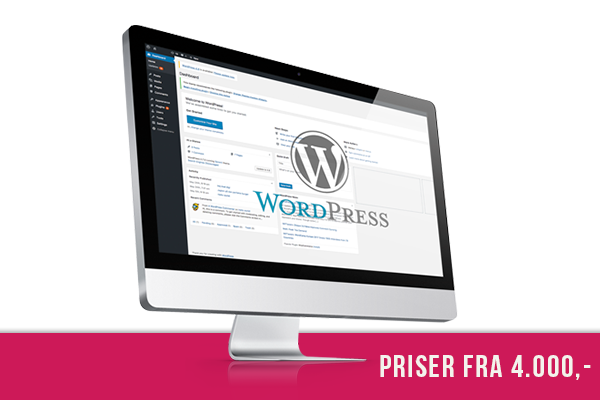
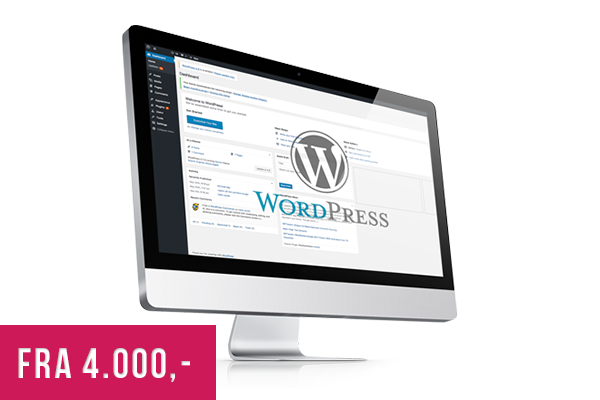
Priser billeder

Changed region(s): [[0.0, 0.81, 1.0, 1.0], [0.03, 0.87, 0.33, 0.96]]

diff --git a/public/css/custom.css b/public/css/custom.css
@@ -1454,7 +1454,7 @@ div.product-chooser{
 	}
 
 	div.product-chooser div.product-chooser-item{
-		padding: 11px;
+		padding: 6px 0px 11px 0px;
 		border-radius: 6px;
 		cursor: pointer;
 		position: relative;
@@ -1479,8 +1479,8 @@ div.product-chooser{
 		div.product-chooser div.product-chooser-item span.title{
 			display: block;
 			margin: 10px 0 5px 0;
-			font-weight: bold;
-			font-size: 12px;
+			font-weight: 500;
+			font-size: 16px;
 		}
 
 		div.product-chooser div.product-chooser-item span.description{

diff --git a/resources/views/prices/index.blade.php b/resources/views/prices/index.blade.php
@@ -27,10 +27,10 @@
 
   <div class="col-xs-12 col-sm-12 col-md-4 col-lg-4">
     <div class="product-chooser-item">
-      <img src="{{asset('images/websolutions/wordpress.png')}}" class="img-rounded col-xs-4 col-sm-4 col-md-12 col-lg-12" alt="Desktop">
+      <img src="{{asset('images/websolutions/wordpress_priser.png')}}" class="img-rounded col-xs-4 col-sm-4 col-md-12 col-lg-12" alt="Desktop">
             <div class="col-xs-8 col-sm-8 col-md-12 col-lg-12">
         <span class="title">Wordpress Hjemmeside</span>
-        <span class="description">Lorem ipsum dolor sit amet, consectetuer adipiscing elit. Aenean commodo ligula eget dolor. Aenean massa. Cum sociis natoque penatibus et magnis dis parturient montes, nascetur ridiculus mus. Donec quam felis, ultricies nec, pellentesque eu, pretium quis, sem.</span>
+        <span class="description">WordPress er perfekt til dig, som vil i gang med din første hjemmeside. WordPress er for langt de fleste utroligt let at lære, og du vil selvstændigt kunne lave smårettelser på hjemmesiden.</span>
 
       </div>
     </div>
@@ -41,7 +41,7 @@
       <img src="{{asset('images/websolutions/bootstrap.png')}}" class="img-rounded col-xs-4 col-sm-4 col-md-12 col-lg-12" alt="Mobile">
             <div class="col-xs-8 col-sm-8 col-md-12 col-lg-12">
         <span class="title">Bootstrap Hjemmeside</span>
-        <span class="description">Lorem ipsum dolor sit amet, consectetuer adipiscing elit. Aenean commodo ligula eget dolor. Aenean massa. Cum sociis natoque penatibus et magnis dis parturient montes, nascetur ridiculus mus. Donec quam felis, ultricies nec, pellentesque eu, pretium quis, sem.</span>
+        <span class="description">Vi sætter en ære i udelukkende at lave smukke hjemmesider, så vores kunder stolt kan vise den frem til deres kunder. Vi laver layoutet, som du ønsker det, og udvikler hjemmesiden med nøjagtigt det farmetema, der passer til din virksomheds visuelle identitet.</span>
       </div>
     </div>
   </div>
@@ -51,12 +51,13 @@
       <img src="{{asset('images/websolutions/customkode.png')}}" class="img-rounded col-xs-4 col-sm-4 col-md-12 col-lg-12" alt="Mobile">
             <div class="col-xs-8 col-sm-8 col-md-12 col-lg-12">
         <span class="title">Custom Kode</span>
-        <span class="description">Lorem ipsum dolor sit amet, consectetuer adipiscing elit. Aenean commodo ligula eget dolor. Aenean massa. Cum sociis natoque penatibus et magnis dis parturient montes, nascetur ridiculus mus. Donec quam felis, ultricies nec, pellentesque eu, pretium quis, sem.</span>
+        <span class="description">Forskellige programmeringssprog har forskellige fordele. Derfor mestrer vi hos Flamingo Media flere teknologier, så din idé kan blive til virkelighed uden at du skal begrænses af temaer, plugins osv. </span>
       </div>
     </div>
   </div>
 
 </div>
+<hr>
 
 <h3> Webshops </h3>
 <div class="row form-group product-chooser">
@@ -65,10 +66,10 @@
 
   <div class="col-xs-12 col-sm-12 col-md-4 col-lg-4">
     <div class="product-chooser-item">
-      <img src="{{asset('images/webshop/magento.png')}}" class="img-rounded col-xs-4 col-sm-4 col-md-12 col-lg-12" alt="Desktop">
+      <img src="{{asset('images/webshop/magento_priser1.png')}}" class="img-rounded col-xs-4 col-sm-4 col-md-12 col-lg-12" alt="Desktop">
             <div class="col-xs-8 col-sm-8 col-md-12 col-lg-12">
         <span class="title">Magento Webshop</span>
-        <span class="description">Lorem ipsum dolor sit amet, consectetuer adipiscing elit. Aenean commodo ligula eget dolor. Aenean massa. Cum sociis natoque penatibus et magnis dis parturient montes, nascetur ridiculus mus. Donec quam felis, ultricies nec, pellentesque eu, pretium quis, sem.</span>
+        <span class="description">Magento er bygget til webshops, hvilket også betyder at vi anbefaler det til mellemstore til store virksomheder. Magento kan sagtens fungere til små webshops, men grundet det komplicerede CMS-system, anbefales det til store virksomheder, som får glæde at den store funktionalitet som Magento tilbyder.</span>
 
       </div>
     </div>
@@ -76,10 +77,10 @@
 
   <div class="col-xs-12 col-sm-12 col-md-4 col-lg-4">
     <div class="product-chooser-item">
-      <img src="{{asset('images/webshop/shopify.png')}}" class="img-rounded col-xs-4 col-sm-4 col-md-12 col-lg-12" alt="Mobile">
+      <img src="{{asset('images/webshop/shopify_priser.png')}}" class="img-rounded col-xs-4 col-sm-4 col-md-12 col-lg-12" alt="Mobile">
             <div class="col-xs-8 col-sm-8 col-md-12 col-lg-12">
         <span class="title">Shopify Webshop</span>
-        <span class="description">Lorem ipsum dolor sit amet, consectetuer adipiscing elit. Aenean commodo ligula eget dolor. Aenean massa. Cum sociis natoque penatibus et magnis dis parturient montes, nascetur ridiculus mus. Donec quam felis, ultricies nec, pellentesque eu, pretium quis, sem.</span>
+        <span class="description">Forskelligt fra de andre CMS-systemer skal der med Shopify betales et månedligt beløb for at bruge deres framework. Der er uendelige design – og opbygningsmuligheder, hvilket gør det perfekt til dig, som vil have din helt egen unikke webshop, og er villig til at betale mere for det.</span>
       </div>
     </div>
   </div>
@@ -89,18 +90,13 @@
       <img src="{{asset('images/webshop/woocommerce.png')}}" class="img-rounded col-xs-4 col-sm-4 col-md-12 col-lg-12" alt="Mobile">
             <div class="col-xs-8 col-sm-8 col-md-12 col-lg-12">
         <span class="title">WooCommerce Webshop</span>
-        <span class="description">Lorem ipsum dolor sit amet, consectetuer adipiscing elit. Aenean commodo ligula eget dolor. Aenean massa. Cum sociis natoque penatibus et magnis dis parturient montes, nascetur ridiculus mus. Donec quam felis, ultricies nec, pellentesque eu, pretium quis, sem.</span>
+        <span class="description">Ved WooCommerce begiver vi os ud i den mere seriøse hjemmeside til iværksætteren med drømmen om en webshop. Ligesom WordPress er det utroligt let for dig at redigere i din hjemmeside, tilføje og redigere produkter med de nødvendige specifikationer, der passer til din webshop.</span>
       </div>
     </div>
   </div>
 
 </div>
 
-<div class="row">
-  <div class="col">
-
-  </div>
-</div>
 </div>
 </section>
 
